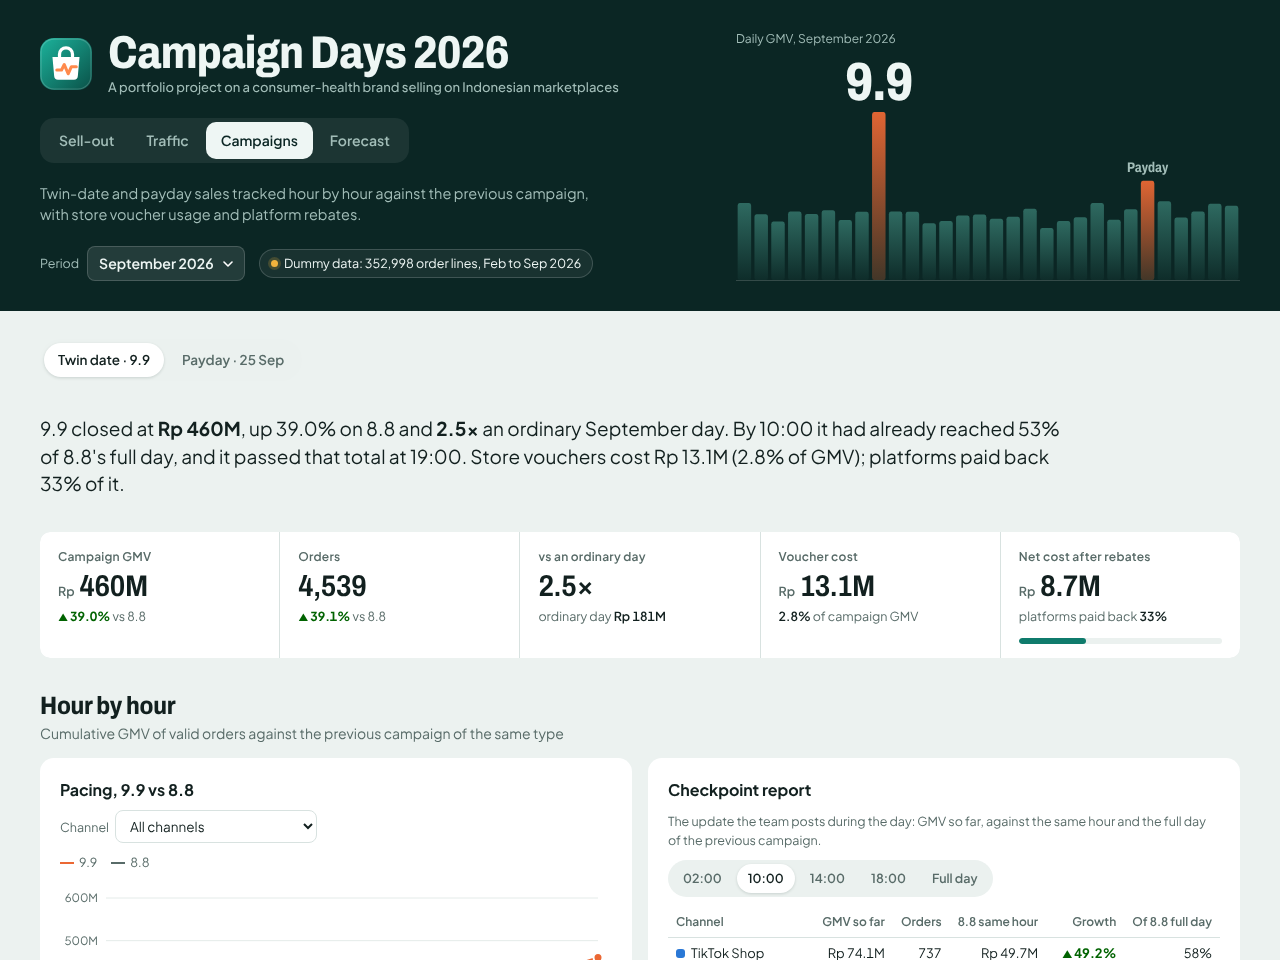
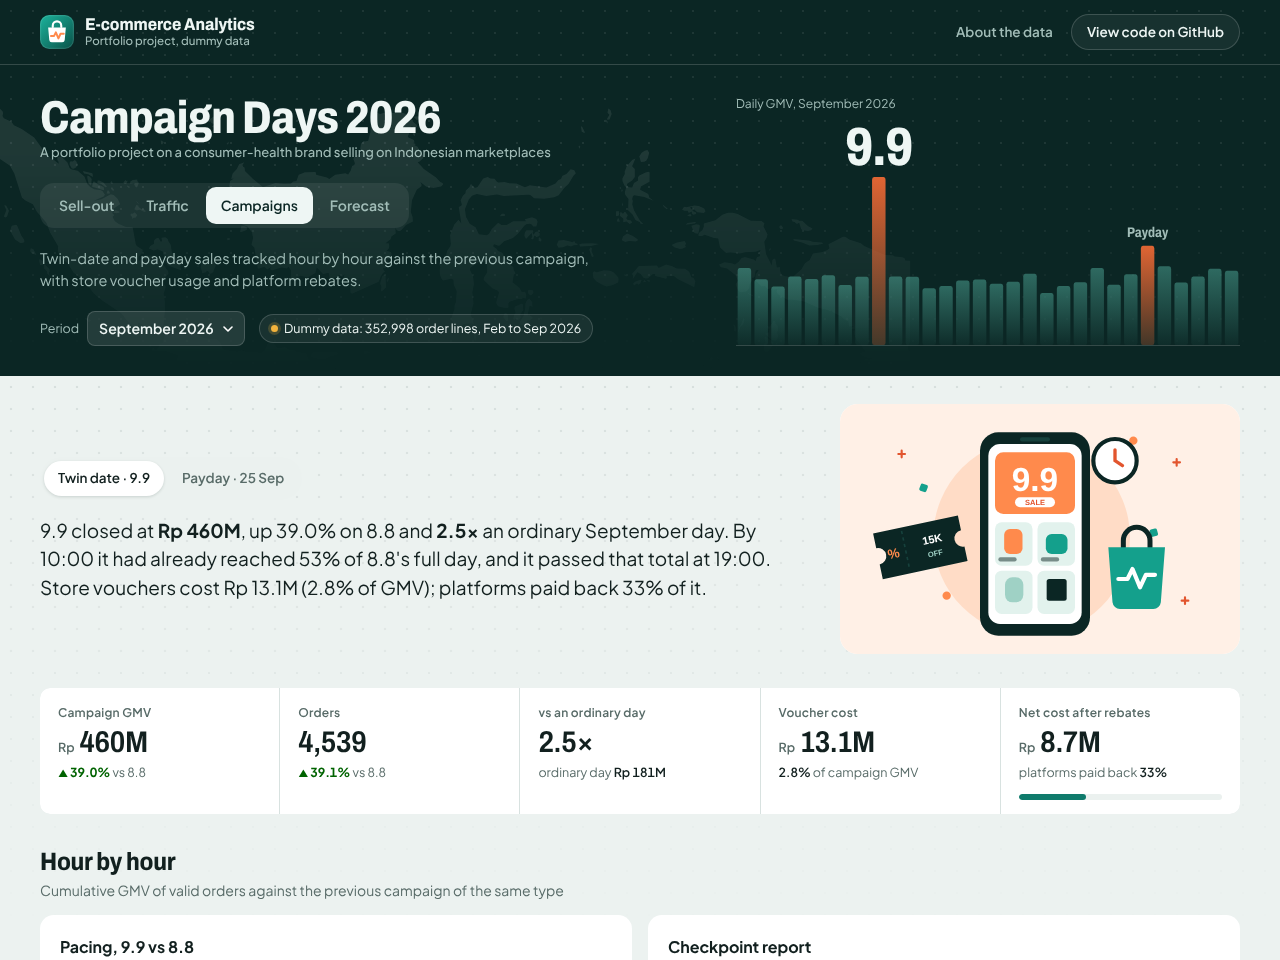
Give the dashboard a company-site feel
- Top bar with the logo, wordmark and a GitHub button
- Hero decoration: faint dot grid and the Indonesian archipelago behind
  the title; the dot grid fades into the top of each page
- Four flat illustrations drawn for the project (product range, live
  shopping, 9.9 sale, warehouse and van) beside each page's summary
- Footer with brand block, page links, project links and data notes

Claude-Session: https://claude.ai/code/session_0185xCfndQ3f2hcNnKjJxaH8

diff --git a/index.html b/index.html
@@ -14,15 +14,26 @@
 <link rel="preconnect" href="https://fonts.googleapis.com">
 <link rel="preconnect" href="https://fonts.gstatic.com" crossorigin>
 <link rel="stylesheet" href="https://fonts.googleapis.com/css2?family=Archivo:wdth,wght@62..125,500..800&family=Plus+Jakarta+Sans:wght@400;500;600;700&display=swap">
-<link rel="stylesheet" href="style.css?v=20261017-1340">
+<link rel="stylesheet" href="style.css?v=20261017-1400">
 </head>
 <body data-page="sellout">
 <header class="hero">
+  <div class="hero-bg" id="hero-bg" aria-hidden="true"></div>
+  <div class="topbar gutter">
+    <div class="topbar-in">
+      <a class="wordmark" href="#sellout">
+        <span class="logo" aria-hidden="true">
+        <svg viewBox="0 0 48 48" width="34" height="34"><defs><linearGradient id="logo-g" x1="0" y1="0" x2="1" y2="1"><stop offset="0" stop-color="#1cb39c"/><stop offset="1" stop-color="#0a5148"/></linearGradient></defs><rect width="48" height="48" rx="13" fill="url(#logo-g)"/><rect x="1" y="1" width="46" height="46" rx="12" fill="none" stroke="#fff" stroke-opacity=".18"/><path d="M18 17v-2a6 6 0 0 1 12 0v2" fill="none" stroke="#fff" stroke-width="3" stroke-linecap="round"/><path d="M11.5 17.5h25l-1.6 17.8a3.5 3.5 0 0 1-3.5 3.2H16.6a3.5 3.5 0 0 1-3.5-3.2z" fill="#fff"/><path d="M15.5 29.5h4.4l2.5-5 3.6 8.5 3-6.5h4.5" fill="none" stroke="#ff8a4c" stroke-width="2.8" stroke-linecap="round" stroke-linejoin="round"/></svg></span>
+        <span class="wm-text">E-commerce Analytics<small>Portfolio project, dummy data</small></span>
+      </a>
+      <nav class="toplinks" aria-label="Project links">
+        <a href="#about">About the data</a>
+        <a class="btn-line" href="https://github.com/andinasywan/ecommerce-analytics-dashboard"><span class="long">View code on </span>GitHub</a>
+      </nav>
+    </div>
+  </div>
   <div class="inner gutter">
     <div class="brand">
-      <div class="logo" aria-hidden="true">
-        <svg viewBox="0 0 48 48" width="52" height="52"><defs><linearGradient id="logo-g" x1="0" y1="0" x2="1" y2="1"><stop offset="0" stop-color="#1cb39c"/><stop offset="1" stop-color="#0a5148"/></linearGradient></defs><rect width="48" height="48" rx="13" fill="url(#logo-g)"/><rect x="1" y="1" width="46" height="46" rx="12" fill="none" stroke="#fff" stroke-opacity=".18"/><path d="M18 17v-2a6 6 0 0 1 12 0v2" fill="none" stroke="#fff" stroke-width="3" stroke-linecap="round"/><path d="M11.5 17.5h25l-1.6 17.8a3.5 3.5 0 0 1-3.5 3.2H16.6a3.5 3.5 0 0 1-3.5-3.2z" fill="#fff"/><path d="M15.5 29.5h4.4l2.5-5 3.6 8.5 3-6.5h4.5" fill="none" stroke="#ff8a4c" stroke-width="2.8" stroke-linecap="round" stroke-linejoin="round"/></svg>
-      </div>
       <div>
         <h1 id="page-title">E-commerce Sell-out 2026</h1>
         <div class="eyebrow">A portfolio project on a consumer-health brand selling on Indonesian marketplaces</div>
@@ -51,7 +62,10 @@
 <!-- ============================================================ 01 SELL-OUT -->
 <main id="page-sellout" class="page" role="tabpanel" aria-labelledby="tab-sellout">
   <div class="inner gutter">
-    <p class="lede" id="so-lede"></p>
+    <div class="intro">
+      <div class="intro-text"><p class="lede" id="so-lede"></p></div>
+      <figure class="ill"><img src="assets/illustrations/products.svg" alt="Illustration of the fictional product range: syrup, gummies, lotion, boxed caplets and capsules" width="480" height="300"></figure>
+    </div>
     <section class="section" aria-label="Sell-out summary"><div class="kpis" id="so-kpis"></div></section>
     <section class="section" aria-label="Notes for this month"><div class="notes" id="so-notes"></div></section>
 
@@ -206,7 +220,10 @@
 <!-- ============================================================ 02 TRAFFIC -->
 <main id="page-traffic" class="page" role="tabpanel" aria-labelledby="tab-traffic" hidden>
   <div class="inner gutter">
-    <p class="lede" id="tr-lede"></p>
+    <div class="intro">
+      <div class="intro-text"><p class="lede" id="tr-lede"></p></div>
+      <figure class="ill"><img src="assets/illustrations/live.svg" alt="Illustration of a live shopping stream on a phone" width="480" height="300"></figure>
+    </div>
     <section class="section" aria-label="Traffic summary"><div class="kpis" id="tr-kpis"></div></section>
 
     <section class="section" id="funnel">
@@ -293,8 +310,11 @@
 <!-- ============================================================ 03 CAMPAIGNS -->
 <main id="page-campaigns" class="page" role="tabpanel" aria-labelledby="tab-campaigns" hidden>
   <div class="inner gutter">
-    <div class="seg" id="camp-kind" role="tablist" aria-label="Campaign type"></div>
-    <p class="lede" id="cp-lede"></p>
+    <div class="intro">
+      <div class="intro-text"><div class="seg" id="camp-kind" role="tablist" aria-label="Campaign type"></div>
+        <p class="lede" id="cp-lede"></p></div>
+      <figure class="ill"><img src="assets/illustrations/campaign.svg" alt="Illustration of a 9.9 sale on a phone with a voucher and a shopping bag" width="480" height="300"></figure>
+    </div>
     <section class="section" aria-label="Campaign summary"><div class="kpis" id="cp-kpis"></div></section>
 
     <section class="section" id="pacing">
@@ -371,7 +391,10 @@
 <!-- ============================================================ 04 FORECAST -->
 <main id="page-forecast" class="page" role="tabpanel" aria-labelledby="tab-forecast" hidden>
   <div class="inner gutter">
-    <p class="lede" id="fc-lede"></p>
+    <div class="intro">
+      <div class="intro-text"><p class="lede" id="fc-lede"></p></div>
+      <figure class="ill"><img src="assets/illustrations/warehouse.svg" alt="Illustration of a warehouse with cartons and a delivery van" width="480" height="300"></figure>
+    </div>
     <section class="section" aria-label="Forecast summary"><div class="kpis" id="fc-kpis"></div></section>
 
     <section class="section" id="network">
@@ -493,21 +516,38 @@
   </div>
 </main>
 
-<footer>
+<footer id="about">
   <div class="inner gutter">
-    <p><b>Dummy data.</b> Every brand, SKU, store, order number, voucher code and figure on this dashboard is fictional and comes from a random generator. The structure and workflow mirror the reporting I did as a Data Analyst intern at a consumer-health company.</p>
-    <p id="stamp"></p>
-    <p>Built with plain HTML, CSS and JavaScript, no chart library · data pipeline in Python (pandas) · map outlines from Natural Earth · <a href="https://github.com/andinasywan/ecommerce-analytics-dashboard">source on GitHub</a></p>
+    <div class="foot-grid">
+      <div class="foot-brand">
+        <span class="wordmark static"><span class="logo" aria-hidden="true"><svg viewBox="0 0 48 48" width="34" height="34"><defs><linearGradient id="logo-g2" x1="0" y1="0" x2="1" y2="1"><stop offset="0" stop-color="#1cb39c"/><stop offset="1" stop-color="#0a5148"/></linearGradient></defs><rect width="48" height="48" rx="13" fill="url(#logo-g2)"/><rect x="1" y="1" width="46" height="46" rx="12" fill="none" stroke="#fff" stroke-opacity=".18"/><path d="M18 17v-2a6 6 0 0 1 12 0v2" fill="none" stroke="#fff" stroke-width="3" stroke-linecap="round"/><path d="M11.5 17.5h25l-1.6 17.8a3.5 3.5 0 0 1-3.5 3.2H16.6a3.5 3.5 0 0 1-3.5-3.2z" fill="#fff"/><path d="M15.5 29.5h4.4l2.5-5 3.6 8.5 3-6.5h4.5" fill="none" stroke="#ff8a4c" stroke-width="2.8" stroke-linecap="round" stroke-linejoin="round"/></svg></span><span class="wm-text">E-commerce Analytics<small>Portfolio project, dummy data</small></span></span>
+        <p><b>Dummy data.</b> Every brand, SKU, store, order number, voucher code, buyer location and figure on this dashboard is fictional and comes from a random generator. The structure and workflow mirror the reporting I did as a Data Analyst intern at a consumer-health company.</p>
+      </div>
+      <div class="foot-col">
+        <h4>Dashboard</h4>
+        <a href="#sellout">Sell-out</a><a href="#traffic">Traffic</a><a href="#campaigns">Campaign days</a><a href="#forecast">Forecast &amp; stock</a>
+      </div>
+      <div class="foot-col">
+        <h4>Project</h4>
+        <a href="https://github.com/andinasywan/ecommerce-analytics-dashboard">Source code</a>
+        <a href="https://github.com/andinasywan/ecommerce-analytics-dashboard#readme">Data and method</a>
+        <a href="https://github.com/andinasywan">@andinasywan on GitHub</a>
+      </div>
+    </div>
+    <div class="foot-meta">
+      <p id="stamp"></p>
+      <p>Built with plain HTML, CSS and JavaScript, no chart library. Data pipeline in Python (pandas). Map outlines from Natural Earth. Illustrations drawn for this project.</p>
+    </div>
   </div>
 </footer>
 
-<script src="data.js?v=20261017-1340"></script>
-<script src="js/geo.js?v=20261017-1340"></script>
-<script src="js/common.js?v=20261017-1340"></script>
-<script src="js/sellout.js?v=20261017-1340"></script>
-<script src="js/traffic.js?v=20261017-1340"></script>
-<script src="js/campaigns.js?v=20261017-1340"></script>
-<script src="js/forecast.js?v=20261017-1340"></script>
-<script src="js/app.js?v=20261017-1340"></script>
+<script src="data.js?v=20261017-1400"></script>
+<script src="js/geo.js?v=20261017-1400"></script>
+<script src="js/common.js?v=20261017-1400"></script>
+<script src="js/sellout.js?v=20261017-1400"></script>
+<script src="js/traffic.js?v=20261017-1400"></script>
+<script src="js/campaigns.js?v=20261017-1400"></script>
+<script src="js/forecast.js?v=20261017-1400"></script>
+<script src="js/app.js?v=20261017-1400"></script>
 </body>
 </html>

diff --git a/style.css b/style.css
@@ -27,6 +27,8 @@
   --hero-line: rgba(255, 255, 255, .17);
   --hero-art: #5fc7b4;
   --sea: #eef4f6; --land: #cfdcd8; --land-2: #e3eae8;
+  --ill-filter: none;
+  --dot: rgba(11, 38, 36, .09);
   --ramp-lo: #d9eee9; --ramp-hi: #0a5c51;
   --font-display: "Archivo", "Arial Narrow", "Helvetica Neue", Arial, sans-serif;
   --font-body: "Plus Jakarta Sans", "Segoe UI", system-ui, -apple-system, sans-serif;
@@ -42,6 +44,8 @@
     --up: #0ca30c; --down: #ff7a6e;
     --hero-bg: #061918; --hero-fg: #eaf4f2; --hero-muted: #8fada8; --hero-line: rgba(255, 255, 255, .13); --hero-art: #3fb7a3;
     --sea: #0d1a1f; --land: #2a3e3b; --land-2: #1a2a28;
+    --ill-filter: brightness(.84) saturate(.9);
+    --dot: rgba(255, 255, 255, .05);
     --ramp-lo: #1f3a36; --ramp-hi: #74d6c4;
     color-scheme: dark;
   }
@@ -55,6 +59,8 @@
   --up: #0ca30c; --down: #ff7a6e;
   --hero-bg: #061918; --hero-fg: #eaf4f2; --hero-muted: #8fada8; --hero-line: rgba(255, 255, 255, .13); --hero-art: #3fb7a3;
   --sea: #0d1a1f; --land: #2a3e3b; --land-2: #1a2a28;
+  --ill-filter: brightness(.84) saturate(.9);
+  --dot: rgba(255, 255, 255, .05);
   --ramp-lo: #1f3a36; --ramp-hi: #74d6c4;
   color-scheme: dark;
 }
@@ -76,6 +82,22 @@ body[data-page="forecast"] [data-for="forecast"] { display: block; }
 
 /* Hero */
 .hero { background: var(--hero-bg); color: var(--hero-fg); position: relative; overflow: hidden; }
+/* hero decoration: faint dot grid and the archipelago outline behind the title */
+.hero-bg { position: absolute; inset: 0; pointer-events: none;
+  background-image: radial-gradient(circle, rgba(255,255,255,.08) 1px, transparent 1.6px); background-size: 22px 22px;
+  -webkit-mask-image: linear-gradient(180deg, #000 40%, transparent); mask-image: linear-gradient(180deg, #000 40%, transparent); }
+.hero-bg svg { position: absolute; left: -6%; bottom: -18%; width: 78%; height: auto; opacity: .085; }
+.topbar { position: relative; border-bottom: 1px solid var(--hero-line); }
+.topbar-in { max-width: 1200px; margin-inline: auto; display: flex; flex-wrap: wrap; justify-content: space-between; align-items: center; gap: 10px 20px; padding-block: 14px; }
+.wordmark { display: inline-flex; align-items: center; gap: 11px; color: var(--hero-fg); text-decoration: none; }
+.wordmark .logo { width: 34px; height: 34px; }
+.wm-text { font-family: var(--font-display); font-stretch: 90%; font-weight: 750; font-size: 17px; line-height: 1.1; letter-spacing: -.005em; }
+.wm-text small { display: block; font-family: var(--font-body); font-weight: 500; font-size: 11.5px; color: var(--hero-muted); letter-spacing: 0; }
+.toplinks { display: flex; align-items: center; gap: 18px; font-size: 13.5px; font-weight: 600; }
+.toplinks a { color: var(--hero-muted); text-decoration: none; }
+.toplinks a:hover { color: var(--hero-fg); }
+.toplinks .btn-line { color: var(--hero-fg); border: 1px solid var(--hero-line); border-radius: 999px; padding: 7px 15px; background: rgba(255,255,255,.05); }
+.toplinks .btn-line:hover { background: rgba(255,255,255,.12); }
 /* The skyline: daily GMV of the chosen month, drawn as the hero's right column */
 .hero-art { grid-column: 2; grid-row: 1 / span 4; position: relative; align-self: stretch; min-height: 220px; pointer-events: none; border-bottom: 1px solid var(--hero-line); }
 .hero-art svg { position: absolute; inset: auto 0 0 0; width: 100%; height: 70%; display: block; }
@@ -106,8 +128,18 @@ body[data-page="forecast"] [data-for="forecast"] { display: block; }
 .tab[aria-selected="true"] { background: var(--hero-fg); color: var(--hero-bg); }
 
 /* Main column */
-main .inner { display: grid; gap: 34px; padding-block: 28px 48px; }
-.lede { font-size: clamp(16px, 2vw, 19px); line-height: 1.45; max-width: 74ch; margin: 0; }
+main .inner { position: relative; display: grid; gap: 34px; padding-block: 28px 48px; }
+/* the hero's dot grid carries on faintly into the top of each page */
+.page { position: relative; }
+.page::before { content: ""; position: absolute; inset: 0 0 auto 0; height: 560px; pointer-events: none;
+  background-image: radial-gradient(circle, var(--dot) 1px, transparent 1.6px); background-size: 22px 22px;
+  -webkit-mask-image: linear-gradient(180deg, #000, transparent); mask-image: linear-gradient(180deg, #000, transparent); }
+.lede { font-size: clamp(16px, 2vw, 19px); line-height: 1.5; max-width: 62ch; margin: 0; }
+/* page intro: the summary sentence next to an illustration */
+.intro { display: grid; grid-template-columns: minmax(0, 1fr) minmax(260px, 400px); gap: 20px 36px; align-items: center; }
+.intro-text { display: grid; gap: 16px; align-content: center; min-width: 0; }
+.ill { margin: 0; border-radius: 18px; overflow: hidden; background: var(--panel); }
+.ill img { display: block; width: 100%; height: auto; filter: var(--ill-filter); }
 .lede b { font-weight: 700; }
 .section-head { display: grid; gap: 3px; }
 .section-head h2 { font-family: var(--font-display); font-stretch: 88%; font-weight: 750; font-size: 25px; letter-spacing: -.01em; line-height: 1.15; }
@@ -336,18 +368,36 @@ td.heat.sel { box-shadow: inset 0 0 0 2px var(--fg); }
 .method dt { font-weight: 700; }
 .method dd { margin: 0; color: var(--muted); }
 
-footer .inner { padding-block: 0 32px; color: var(--muted); font-size: 12.5px; display: grid; gap: 6px; }
+footer .inner { padding-block: 0 36px; color: var(--muted); font-size: 12.5px; display: grid; gap: 6px; }
+.foot-grid { display: grid; grid-template-columns: minmax(0, 2fr) minmax(140px, 1fr) minmax(160px, 1fr); gap: 24px 36px; padding-top: 28px; border-top: 1px solid var(--line); }
+.foot-brand { display: grid; gap: 12px; align-content: start; }
+.foot-brand p { font-size: 13px; line-height: 1.55; max-width: 60ch; }
+.wordmark.static { color: var(--fg); }
+.wordmark.static .wm-text small { color: var(--muted); }
+.foot-col { display: grid; gap: 7px; align-content: start; font-size: 13.5px; }
+.foot-col h4 { margin: 0 0 2px; font-size: 13px; color: var(--fg); }
+.foot-col a { color: var(--muted); text-decoration: none; }
+.foot-col a:hover { color: var(--accent); }
+.foot-meta { display: grid; gap: 4px; margin-top: 18px; padding-top: 14px; border-top: 1px solid var(--line); }
 footer p { margin: 0; max-width: 100ch; }
 footer b { color: var(--fg); }
 .error { background: var(--panel); border: 1px solid var(--line); border-radius: var(--r); padding: 18px; }
 
 @media (max-width: 860px) {
+  .intro { grid-template-columns: minmax(0, 1fr); }
+  .ill { max-width: 520px; }
+  .foot-grid { grid-template-columns: minmax(0, 1fr) minmax(0, 1fr); }
+  .foot-brand { grid-column: 1 / -1; }
+  .hero-bg svg { width: 140%; left: -20%; bottom: auto; top: 30%; }
   .hero .inner { grid-template-columns: minmax(0, 1fr); }
   .hero-art { grid-column: 1; grid-row: auto; min-height: 190px; }
   .hero-art svg { height: 58%; }
   .tab { padding: 7px 12px; }
 }
 @media (max-width: 720px) {
+  .toplinks a:not(.btn-line) { display: none; }
+  .toplinks .long { display: none; }
+  .topbar-in { flex-wrap: nowrap; }
   .opt { display: none; }
   .only-narrow { display: inline; }
   .hide-narrow { display: none; }

diff --git a/js/app.js b/js/app.js
@@ -59,6 +59,15 @@
     box.appendChild(U.el("span", "art-cap", "Daily GMV, " + U.monthName(m)));
   }
 
+  // faint archipelago behind the hero title
+  function drawHeroBg() {
+    const G = window.GEO, box = $("#hero-bg");
+    if (!G || !box) return;
+    const svg = U.svgEl("svg", { viewBox: `0 0 ${G.w} ${G.h}` });
+    svg.appendChild(U.svgEl("path", { d: G.indonesia, fill: "var(--hero-fg)" }));
+    box.replaceChildren(svg);
+  }
+
   function show(name) {
     if (!PAGES[name]) name = "sellout";
     document.body.dataset.page = name;
@@ -82,6 +91,7 @@
 
   for (const k of Object.keys(PAGES)) { const o = PAGES[k].obj(); if (o) o.render(); }
   drawHero();
+  drawHeroBg();
   window.addEventListener("hashchange", fromHash);
   fromHash();
 

diff --git a/README.md b/README.md
@@ -142,4 +142,4 @@ Settings → Pages → *Deploy from a branch* → `main` / `(root)`. There is no
 ## Built with
 
 Python (pandas, numpy) for the data · plain HTML, CSS and JavaScript for the dashboard · SVG charts drawn by hand,
-no chart library · map outlines from Natural Earth · Archivo and Plus Jakarta Sans fonts.
+no chart library · map outlines from Natural Earth · flat illustrations drawn for this project (assets/illustrations) · Archivo and Plus Jakarta Sans fonts.
